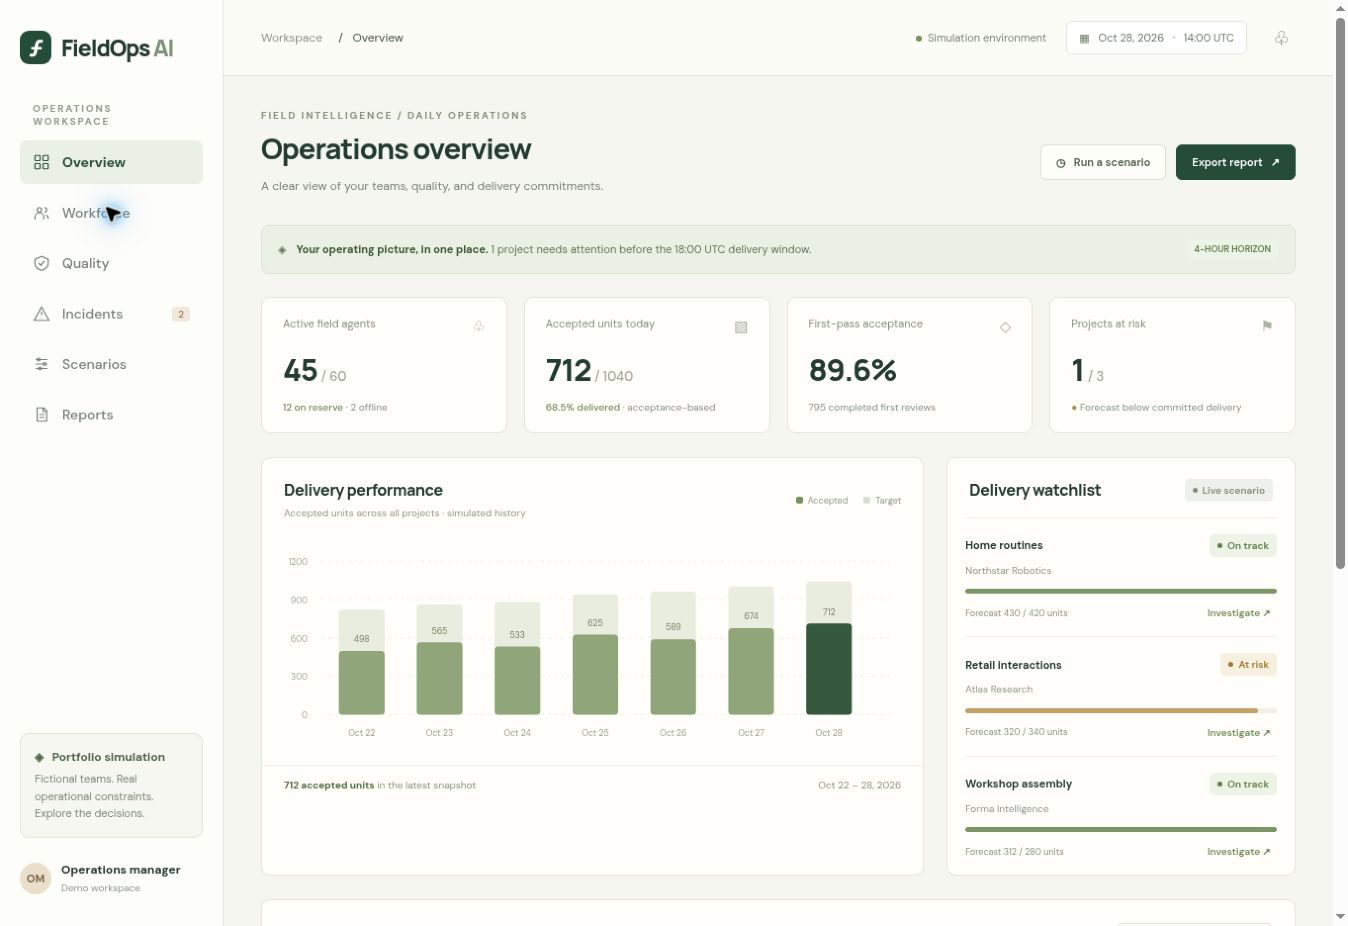
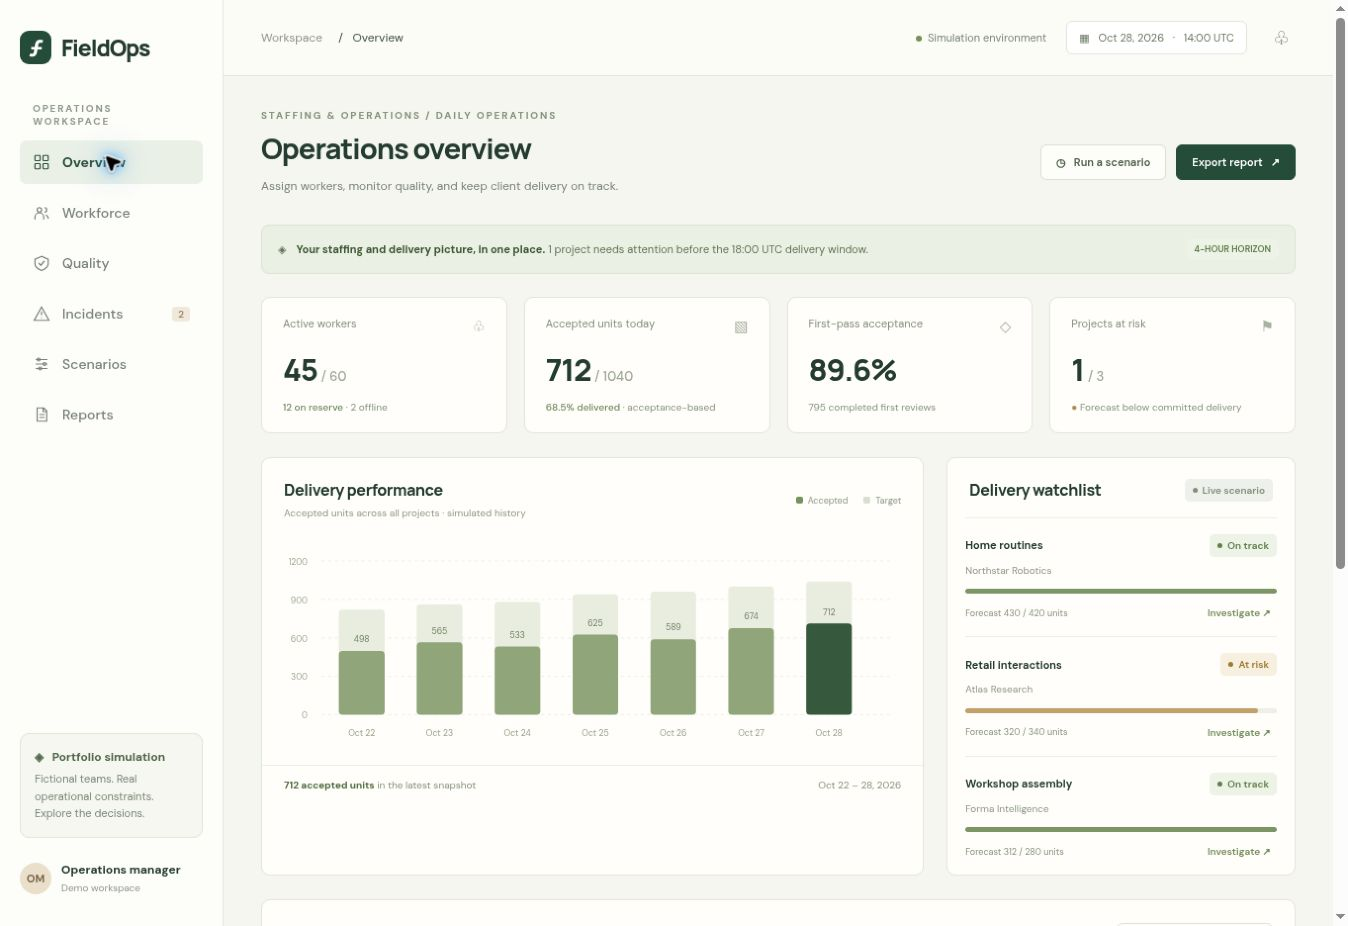
Clarify FieldOps as staffing and operations management; refresh screenshots

diff --git a/dist/index.html b/dist/index.html
@@ -1,1 +1,1 @@
-<!doctype html><html lang="en"><head><meta charset="utf-8"><meta name="viewport" content="width=device-width,initial-scale=1"><meta name="theme-color" content="#18372b"><title>FieldOps AI — Operations Console</title><meta name="description" content="Interactive simulated operations console for distributed AI data collection. Manage staffing, quality, delivery risk and corrective actions."><link rel="stylesheet" href="style.css"></head><body><div id="app"></div><div id="toast" role="status"></div><script type="module" src="app.mjs"></script></body></html>
+<!doctype html><html lang="en"><head><meta charset="utf-8"><meta name="viewport" content="width=device-width,initial-scale=1"><meta name="theme-color" content="#18372b"><title>FieldOps — Staffing & Operations Management</title><meta name="description" content="Staffing and operations management for teams across different locations. Assign workers, monitor quality, investigate delivery risk, and compare simulated scenarios."><link rel="stylesheet" href="style.css"></head><body><div id="app"></div><div id="toast" role="status"></div><script type="module" src="app.mjs"></script></body></html>

diff --git a/README.md b/README.md
@@ -1,8 +1,10 @@
-# FieldOps AI
+# FieldOps
 
-### Workforce, Quality & Delivery Operations
+### Staffing & Operations Management
 
-An interactive operations app for a fictional AI data collection provider. Investigate delivery risks, allocate qualified reserve workers, expand QA capacity, manage incidents, and export client reports.
+An interactive staffing and operations app for teams working across different locations. Assign available workers to projects, monitor quality checks, identify delivery risks, and compare the cost of corrective actions.
+
+The example business collects recordings used to train AI. That is the client industry: FieldOps itself uses predefined rules and calculations, with managers making staffing decisions.
 
 **All data and outcomes are simulated.** This is an independent portfolio project, not actual client work.
 
@@ -12,7 +14,7 @@ The hosted app is owner-private and requires the owner's ChatGPT access. The rev
 
 ## Operations overview
 
-![FieldOps AI operations dashboard with staffing, accepted delivery, QA and risk indicators](docs/screenshots/Overview.jpg)
+![FieldOps operations dashboard with staffing, accepted delivery, QA and risk indicators](docs/screenshots/Overview.jpg)
 
 ## Try a real operational decision
 

diff --git a/docs/INTRODUCTION.md b/docs/INTRODUCTION.md
@@ -1,6 +1,8 @@
-# FieldOps AI — Introduction
+# FieldOps — Introduction
 
-FieldOps AI is an interactive portfolio application for distributed AI data collection operations. It connects staffing, quality assurance, delivery commitments and direct cost so a manager can investigate a risk and test a corrective action.
+FieldOps is a staffing and operations management app for teams working across different locations. It helps managers decide who should work on each project, identify staffing or quality-review shortages, and assess whether accepted work will be delivered on time.
+
+The demonstration business collects recordings used to train AI. This describes the industry being served; the app itself uses predefined rules and calculations rather than AI models. Staffing decisions remain with the manager.
 
 The demonstration models 60 fictional workers, three client projects, equipment/connectivity exceptions and limited QA capacity. Managers can search the workforce, assign eligible reserve agents, add review capacity, update incident status, compare scenarios, and export a client report. Changes persist in the current browser and can be reset.
 

diff --git a/docs/VALIDATION.md b/docs/VALIDATION.md
@@ -1,4 +1,4 @@
-# FieldOps AI — Validation & Demonstration
+# FieldOps — Validation & Demonstration
 
 Verified October 28, 2026. All operational values and outcomes below are simulated.
 

diff --git a/docs/BUSINESS-CASE.md b/docs/BUSINESS-CASE.md
@@ -1,4 +1,4 @@
-# FieldOps AI — Business Case
+# FieldOps — Business Case
 
 Simulated portfolio project · Project definition stage
 

diff --git a/docs/ARCHITECTURE.md b/docs/ARCHITECTURE.md
@@ -1,4 +1,4 @@
-# FieldOps AI — Architecture
+# FieldOps — Architecture
 
 ## Implemented application
 
